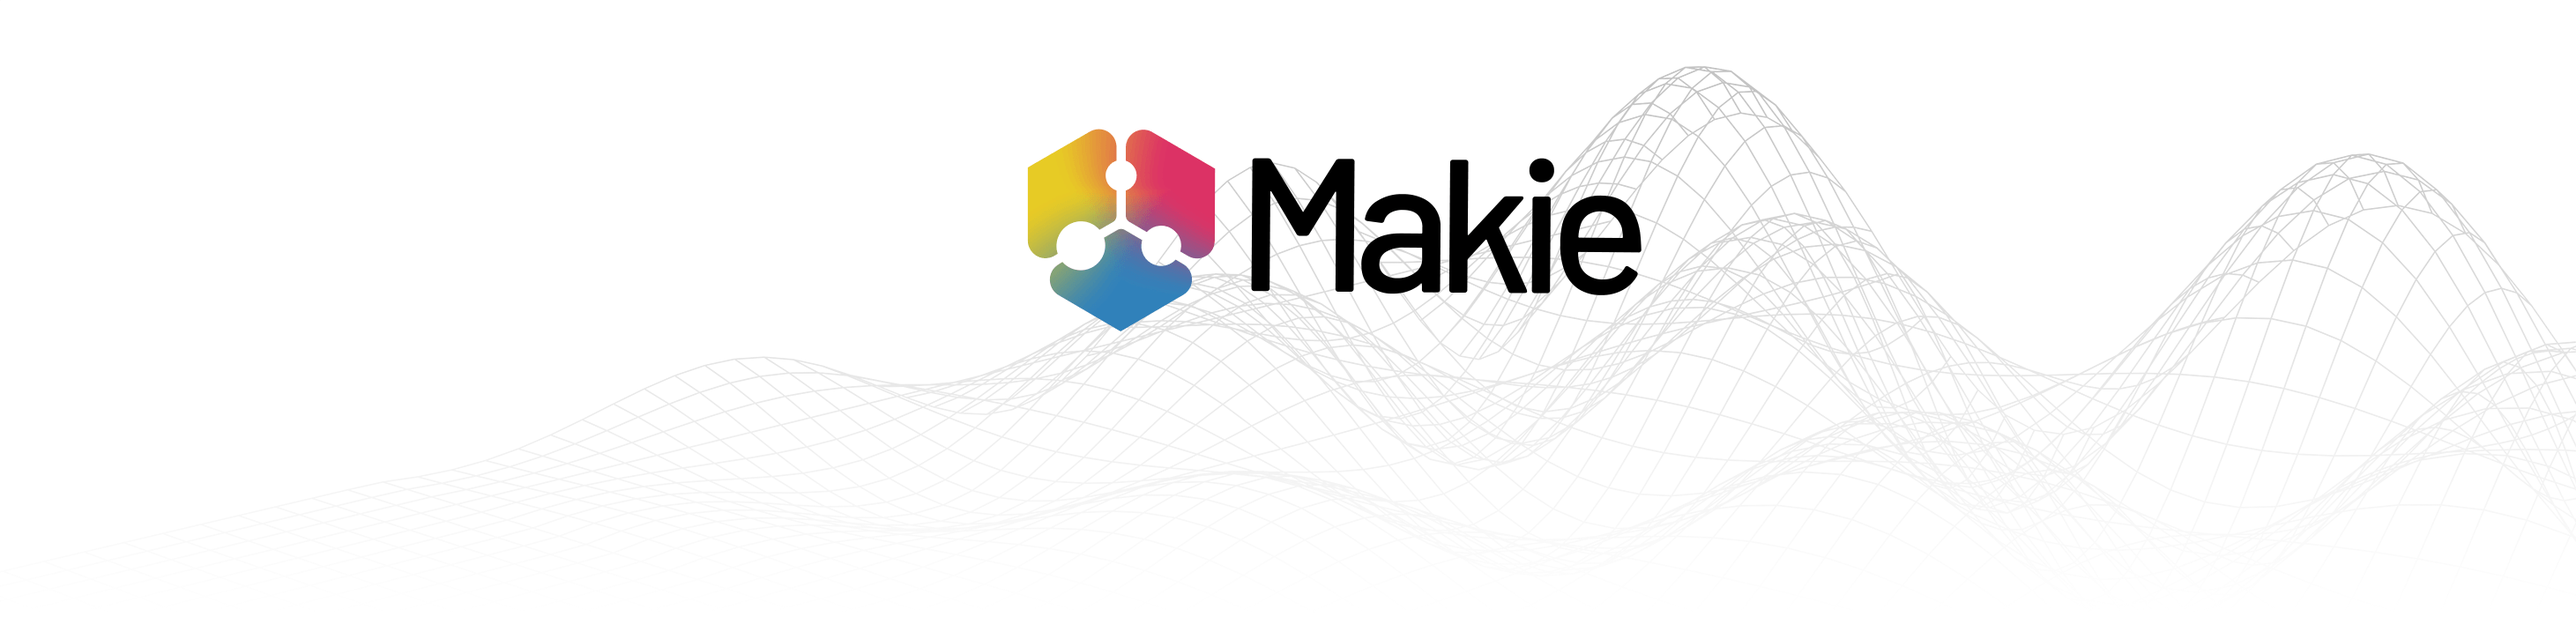
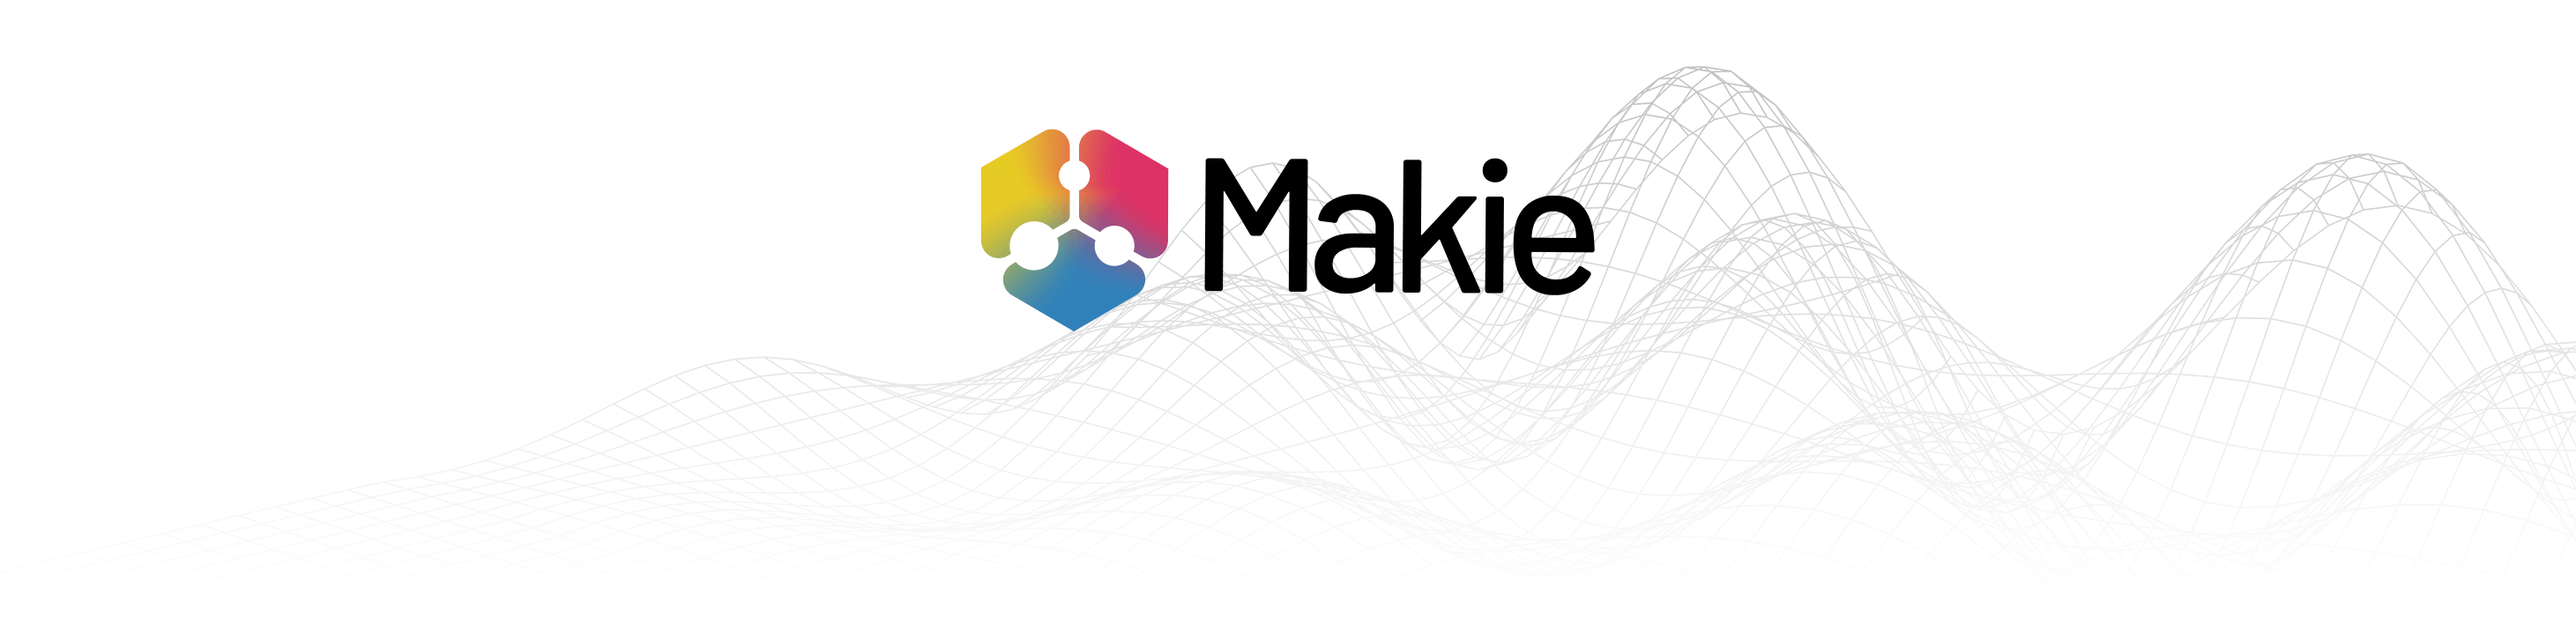
add code copying buttons and code expansion button (#1258)
* add code copying buttons and code expansion button

* fix layout bug and clipboard polyfill

* button title

* centered banner

Changed region(s): [[0.3737, 0.21, 0.654, 0.54]]

diff --git a/docs/_css/makie.css b/docs/_css/makie.css
@@ -389,6 +389,7 @@ a.boxlink {
 }
 
 #main {
+    width: 100%;
     max-width: none;
     display: block;
     margin-bottom: 1em;
@@ -622,9 +623,79 @@ input.collapse-toggle {
 
 .banner-image {
     width: 100%;
+}
 
 .site-container {
     display: flex;
     flex-direction: column;
     min-height: 100vh;
+}
+
+input.hidecode {
+    display: none;
+}
+
+input.hidecode + pre {
+    margin-top: 0;
+}
+
+input.hidecode + pre code {
+    border-top-left-radius: 0;
+    border-top-right-radius: 0;
+    height: 11em;
+    overflow-y: hidden;
+}
+
+input.hidecode:checked + pre code {
+    height: 100%;
+    transition: 1s linear;
+}
+
+label.hidecode {
+    display: block;
+    text-align: center;
+    padding: 0.25em;
+    background: #eee;
+    border-top-left-radius: 10px;
+    border-top-right-radius: 10px;
+    border: 1px solid #eaeaea;
+    font-size: var(--small);
+    color: #a7a6a6;
+}
+
+label.hidecode:hover {
+    color: #5e5e5e;
+}
+
+pre {
+    position: relative;
+}
+
+button.copy-code {
+    font-family: "Font Awesome 5 Free";
+    position: absolute;
+    top: 0.25em;
+    right: 0.25em;
+    background: rgba(0, 0, 0, 0.07);
+    border: none;
+    color: #a2a2a2;
+    border-radius: 0.25em;
+    padding: 0.25em 0.4em;
+    font-size: 0.9em;
+}
+
+button.copy-code.clicked {
+    color: rgb(22, 173, 22);
+}
+
+button.copy-code.clicked:hover {
+    color: rgb(22, 173, 22);
+}
+
+button.copy-code:hover {
+    color: #555555;
+}
+
+button.copy-code:focus {
+    outline: none;
 }

diff --git a/docs/_libs/navbar.js b/docs/_libs/navbar.js
@@ -70,4 +70,51 @@ window.addEventListener('DOMContentLoaded', () => {
 		});
 	})
 	
+
+
+
+	// copy code buttons
+	document.querySelectorAll("pre code").forEach(el => {
+		let b = document.createElement("button");
+		b.innerText = "\uf46d";
+		b.title = "Copy code to clipboard"
+		b.classList.add("copy-code");
+		el.parentElement.append(b);
+
+		b.onclick = function(){
+			b.innerText = "\uf46c";
+			b.classList.add("clicked");
+			copyToClipboard(el.innerText);
+			setTimeout(function(){
+				b.innerText = "\uf46d";
+				b.classList.remove("clicked");
+			}, 2000);
+		};
+	});
 });
+
+
+
+function copyToClipboard(textToCopy) {
+    // navigator clipboard api needs a secure context (https)
+    if (navigator.clipboard && window.isSecureContext) {
+        // navigator clipboard api method'
+        return navigator.clipboard.writeText(textToCopy);
+    } else {
+        // text area method
+        let textArea = document.createElement("textarea");
+        textArea.value = textToCopy;
+        // make the textarea out of viewport
+        textArea.style.position = "fixed";
+        textArea.style.left = "-999999px";
+        textArea.style.top = "-999999px";
+        document.body.appendChild(textArea);
+        textArea.focus();
+        textArea.select();
+        return new Promise((res, rej) => {
+            // here the magic happens
+            document.execCommand('copy') ? res() : rej();
+            textArea.remove();
+        });
+    }
+}

diff --git a/docs/documentation/theming/predefined_themes.md b/docs/documentation/theming/predefined_themes.md
@@ -3,10 +3,12 @@
 Makie has a few predefined themes.
 Here you can see the same example figure with these different themes applied.
 
-## Default theme
+~~~
+<label for="hidecode" class="hidecode">Expand code</label>
+<input id="hidecode" class="hidecode" type="checkbox">
+~~~
 
-\begin{examplefigure}{}
-```julia
+```julia:demofigure
 using CairoMakie
 using Random
 
@@ -64,7 +66,12 @@ function demofigure()
 
     f
 end
+```
 
+## Default theme
+
+\begin{examplefigure}{}
+```julia
 demofigure()
 ```
 \end{examplefigure}
